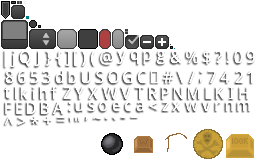
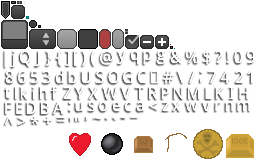
heart

Changed region(s): [[0.25, 0.8125, 0.375, 0.9688]]

diff --git a/core/src/com/mygdx/game/UI/GameScreen.java b/core/src/com/mygdx/game/UI/GameScreen.java
@@ -105,7 +105,7 @@ public class GameScreen extends Page {
         actors.add(table);
 
 
-        table.add(new Image(parent.skin.getDrawable("stick"))).top().left().size(1.25f * TILE_SIZE);
+        table.add(new Image(parent.skin.getDrawable("heart"))).top().left().size(1.25f * TILE_SIZE);
         healthLabel = new Label("N/A", parent.skin);
         table.add(healthLabel).top().left().size(50);
 
@@ -120,8 +120,6 @@ public class GameScreen extends Page {
         table.add(new Image(parent.skin.getDrawable("ball"))).top().left().size(1.25f * TILE_SIZE);
         ammo = new Label("N/A", parent.skin);
         table.add(ammo).top().left().size(50);
-
-        table.add(new Image(parent.skin.getDrawable("key"))).size(128);
 
         table.top().left();
     }
